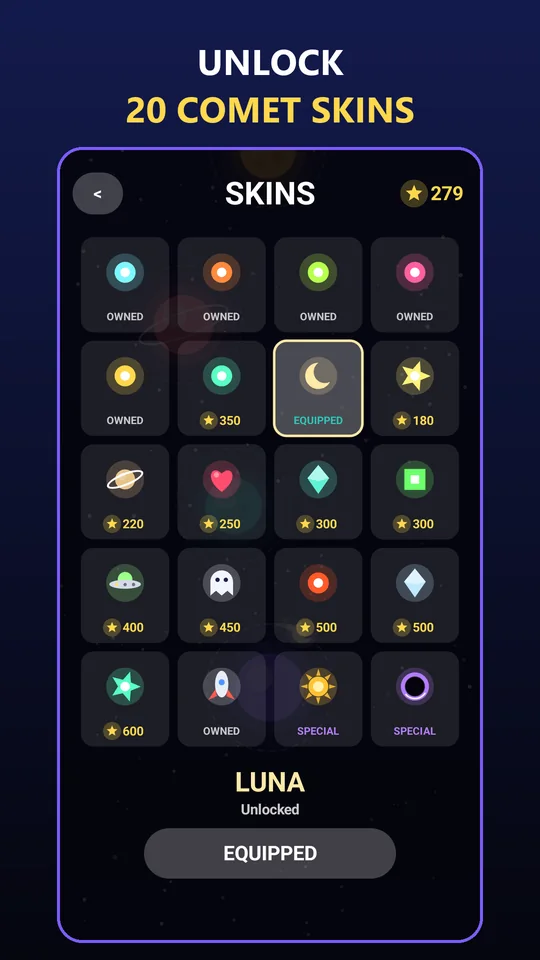
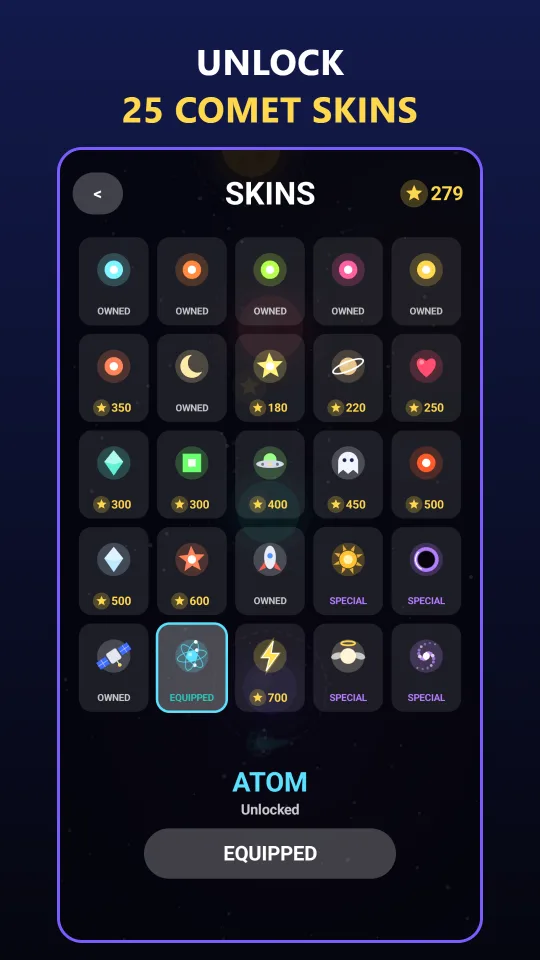
Orbit Hop 1.3.1 site update: 25 skins, asteroids, power-ups
The Orbit Hop feature list now says 25 comet skins and adds the
drifting asteroids and the magnet and slow-mo power-ups, and the third
gallery screenshot shows the new 5x5 skin shop.

Changed region(s): [[0.1481, 0.25, 0.8593, 0.8438], [0.2074, 0.0625, 0.5037, 0.125], [0.563, 0.0938, 0.7704, 0.125]]

diff --git a/index.html b/index.html
@@ -131,7 +131,15 @@
               </li>
               <li>
                 <svg viewBox="0 0 24 24" fill="none" stroke="currentColor" stroke-width="2" stroke-linecap="round" aria-hidden="true"><circle cx="17" cy="7" r="3"/><path d="M14.5 9.5 4 20M12.2 6.8 5 14M17.2 11.8 10 19"/></svg>
-                <div><strong>20 comet skins</strong><span>Moons, rockets, ghosts and more, each with its own trail.</span></div>
+                <div><strong>25 comet skins</strong><span>Moons, rockets, satellites, atoms and more, each with its own trail.</span></div>
+              </li>
+              <li>
+                <svg viewBox="0 0 24 24" fill="none" stroke="currentColor" stroke-width="2" stroke-linejoin="round" aria-hidden="true"><path d="M8 4.5 14 3l5 4 1.5 6-3.5 5.5-6 1.5-5-3.5L4 10z"/><circle cx="10" cy="10" r="1.6"/><circle cx="14.5" cy="14" r="1.2"/></svg>
+                <div><strong>Dodge asteroids</strong><span>Rocks drift across the later zones. Hop around them.</span></div>
+              </li>
+              <li>
+                <svg viewBox="0 0 24 24" fill="none" stroke="currentColor" stroke-width="2" stroke-linecap="round" aria-hidden="true"><path d="M6 4v8a6 6 0 0 0 12 0V4"/><path d="M6 8h4M14 8h4"/></svg>
+                <div><strong>Power-ups</strong><span>A star magnet, and slow-mo to help you aim.</span></div>
               </li>
             </ul>
             <div class="actions">
@@ -154,7 +162,7 @@
       <div class="gallery reveal" tabindex="0" aria-label="Orbit Hop screenshots">
         <figure><img src="assets/shot-1.webp" alt="Chain hops for combo multipliers" loading="lazy" width="540" height="960"></figure>
         <figure><img src="assets/shot-2.webp" alt="Explore new galaxy zones" loading="lazy" width="540" height="960"></figure>
-        <figure><img src="assets/shot-3.webp" alt="Unlock 20 comet skins" loading="lazy" width="540" height="960"></figure>
+        <figure><img src="assets/shot-3.webp" alt="Unlock 25 comet skins" loading="lazy" width="540" height="960"></figure>
         <figure><img src="assets/shot-4.webp" alt="A new galaxy every day" loading="lazy" width="540" height="960"></figure>
         <figure><img src="assets/shot-5.webp" alt="Complete missions to earn stars" loading="lazy" width="540" height="960"></figure>
         <figure><img src="assets/shot-6.webp" alt="Beat your best score" loading="lazy" width="540" height="960"></figure>
